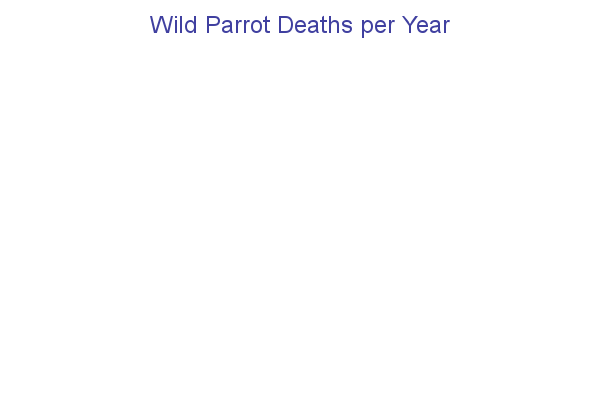
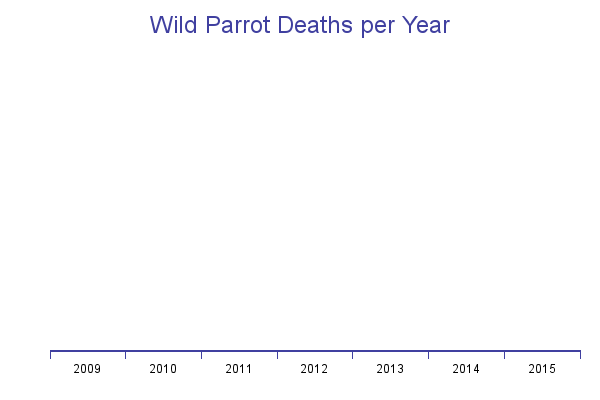
x-axis rendered

Changed region(s): [[0.09, 0.87, 0.96, 0.93]]

diff --git a/ch4/charter/renderers/x_axis.py b/ch4/charter/renderers/x_axis.py
@@ -1,4 +1,25 @@
 # x_axis
+from PIL import ImageFont
+from ..constants import *
 
 def draw(chart,drawer):
-  pass
+  font = ImageFont.truetype("Arial", 12)
+  label_height = font.getsize("Test")[1]
+  avail_width = CHART_WIDTH - Y_AXIS_WIDTH - MARGIN
+  bucket_width = avail_width / len(chart['x_axis'])
+  axis_top = CHART_HEIGHT - X_AXIS_HEIGHT
+  drawer.line([(Y_AXIS_WIDTH, axis_top),(CHART_WIDTH - MARGIN,axis_top)], "#4040a0", 2)
+  left = Y_AXIS_WIDTH
+  # draw x axis tickmarks
+  for bucket_num in range(len(chart['x_axis'])):
+    drawer.line([(left, axis_top),(left, axis_top + TICKMARK_HEIGHT)], "#4040a0", 1)
+    label_width = font.getsize(chart['x_axis'][bucket_num])[0]
+    label_left = max(left,
+                     left + bucket_width/2 - label_width/2)
+    label_top = axis_top + TICKMARK_HEIGHT + 4
+    drawer.text((label_left, label_top),chart['x_axis'][bucket_num], "#000000", font)
+    left = left + bucket_width
+  # final tickmark
+  drawer.line([(left,axis_top),
+               (left,axis_top + TICKMARK_HEIGHT)],
+               "#4040a0",1)

diff --git a/ch4/charter/constants.py b/ch4/charter/constants.py
@@ -1,3 +1,8 @@
 CHART_WIDTH = 600
 CHART_HEIGHT = 400
 TITLE_HEIGHT = 50
+
+X_AXIS_HEIGHT = 50
+Y_AXIS_WIDTH = 50
+MARGIN = 20
+TICKMARK_HEIGHT = 8
